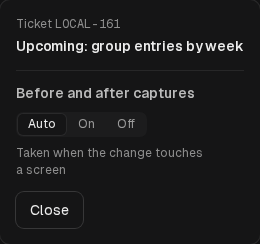
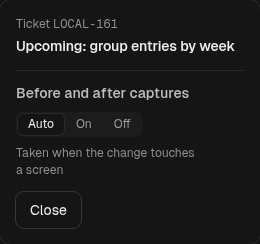
v2 j3-capture-detect: the switch's buttons 44 px up to 1100 px; the log's checks after the merge of 374, the art director's pass, the after captures again

diff --git a/v2/app/web/screens/session/session.css b/v2/app/web/screens/session/session.css
@@ -480,3 +480,5 @@ details.row .what > .sub { margin: 0 0 0 auto; }
 /* The outcome takes the focus to be read out (CloseTicket.tsx); a line of text, it draws no ring. */
 #close-done:focus { outline: 2px solid transparent; }
 #close-open { margin-top: 12px; }
+/* The receipt's captures switch on the ticket card (P226) reuses the Editor's switch, its buttons 44 px tall wherever the screen's controls are. */
+@media (max-width: 1100px) { .ticket-captures .mode button { min-height: 44px; } }

diff --git a/docs/v2/decisions-log.md b/docs/v2/decisions-log.md
@@ -5911,10 +5911,23 @@ With the CPU slowed four times the budget is at its edge: what is left is the ne
 4. **The decision is taken before any browser starts**, in `#captureProof`, for a one-service author and for each service step alike. The engine asks a new optional effect, `changedPaths` (`flow/effects.ts`): the author's branch fetched into the service's own checkout as a step's branch is, into a ref of its own (`refs/cleared/proof/<service>/<branch>`), committed paths only (publish refuses a branch with no commit of its own, so the authors commit), a folder service's in its folder. No git runs in the session's checkout. Without the effect (the tests' fakes), every author is captured as before and the receipt has no reason, so P210's receipts read as they did.
 5. **Journaled on the capture's event.** `cleared.proof_captured` gains an optional `need` (`take`, `reason`, `screens`); a skipped capture is journaled with no file and no missing part. No new custom name.
 6. **The choice is kept by ticket in the ledger, not on the tracker's ticket.** The ticket store has no field a ticket can change after it is created (labels are set at creation), and adding one would reopen lane 1's contract and every store. So a row of `capture_choices` (ticket, project, choice, who, when), the flow module's table, as the fast lane keeps its row; a ticket with no row is on Auto. `GET /api/tickets/:id/captures` answers the choice; `POST` takes `{ choice: 'auto' | 'on' | 'off' }` from a signed-in person only (the editor's save's check, `humanUser`), 404 for a ticket the store does not know. It counts from the next author that ends its work: captures already taken stay.
-7. **The switch is on the ticket card**, the session screen's left column, under the ticket's facts: "Before and after captures" / "Captures avant et après", then Auto, On, Off (Auto, Oui, Non) drawn with the Editor's diff and file switch's existing classes (`.mode.scope`), and one line that says what the pressed one does. No sheet changed: `session.css` and `app.css` are being redrawn by the `j3-visual-redesign` lane. Not drawn before the choice is read, nor on a ticket that is Done or Ready to Ship. A failed save says so under the switch and keeps the old choice pressed. "Auto" joins the words French spells as English in `app/web/test/i18n-audit.test.tsx`.
+7. **The switch is on the ticket card**, the session screen's left column, under the ticket's facts: "Before and after captures" / "Captures avant et après", then Auto, On, Off (Auto, Oui, Non) drawn with the Editor's diff and file switch's existing classes (`.mode.scope`), and one line that says what the pressed one does. The sheets are left to the `j3-visual-redesign` lane, which redraws `session.css` and `app.css` (pull request 377): one scoped rule only, for the touch target (below). Not drawn before the choice is read, nor on a ticket that is Done or Ready to Ship, nor for an answer that is not a choice. The choice is read once with the view and set by its own save. A failed save says so under the switch and keeps the old choice pressed. "Auto" joins the words French spells as English in `app/web/test/i18n-audit.test.tsx`.
 
 **Tests first.** `4722a0b` committed the tests alone, on `origin/v2` at `819ce38`. On that code `test/flow/capture-need.test.ts` and `test/flow/capture-detect.test.ts` cannot load (`capture-need.ts` and `capture-choice.ts` do not exist); the receipt has no reason (six of seven tests of `test/flow/receipt-need.test.ts` fail, the seventh guards a capture journaled before the rule); both tests of `test/flow/capture-paths.test.ts` fail (`changedPaths` is not an effect); the routes and the switch are absent (three of four tests of `app/web/test/session/capture-choice.test.tsx` fail, the fourth, nothing drawn before the choice is read, guards the other side). `test/api/types.test.ts` (68 routes) and `test/flow/modules.test.ts` (42 routes, the new table) were amended with them, since they pin those lists. The browser test, `app/test/session/capture-choice-browser.test.ts`, was written after the code, to take the card's captures and to prove the click, the save and the reload in Chromium; it is in the CI's `browser` job list. Two test edits came after the first full run, both in the tests: the browser test first opened a session the default fixtures source does not serve (it now finds the ticket's author in the source's list), and it compared the chooser with the account's name where the service keeps its id.
 
-**Captures** (the visual loop, B4.5). The ticket card before and after, at 1440, 1280, 768 and 390 pixels, light and dark, in English, and at 1440 and 390 in French: `docs/v2/capture-detect/{before,after}/`, taken by the browser test with `CLEARED_V2_SHOTS` on the fixtures source (the before set on a detached checkout of `819ce38`). Twenty PNG files, 212 KB in all, each about 10 KB; not put through `pngquant` and `optipng`, which this machine does not have, and small enough as they are.
+**Art-director pass** (Sonnet 5.5 in a fresh agent, on the twenty captures, `CaptureSwitch`, the catalogs, the session sheet and `app/DESIGN.md`; Impeccable's critique as its checklist; the first brief named a wrong path for the design file, and a second message gave it the right one). No breakage in the code. Taken: the switch's buttons are 44 px tall up to 1100 px, as the screen's other controls are (DESIGN.md section 8; they were the Editor switch's 36 px at 768), by one rule scoped to `.ticket-captures` at the end of `session.css`, so the Editor's own switch and the redraw of pull request 377 are left alone; the status line is always in the page (a live region inserted with its text is often missed); the group is described by its hint (`aria-describedby`); a save in flight ignores a second click instead of disabling the buttons, which faded the pressed one. Not taken: a focus ring of its own, since `app.css` already draws the app's ring (`--ring`) on every `:focus-visible`; the dark contrast of the unpressed choices, the Editor switch's styling before this lane, for the lane that redraws the sheets; the fixed ids, which follow the card's own (`ticket-title`, `criteria-title`); the hints' wording, since the heading says what is taken.
+
+**Two defects the browser list found, both fixed before the pull request.** The stack and continuity tests serve the session view from sources that answer every route they do not know with something that is not a choice, and the switch drew a missing key (`captures_undefined_hint`). The view now draws the switch only for an answer that is a choice (`captureChoiceOf`, tested on such answers). And the choice was read again at every change of the service, by each of the up to five views the stack keeps mounted: it is now read once with the view and set by its own save, so a choice made in another tab shows on the next visit.
+
+**Captures** (the visual loop, B4.5). The ticket card before and after, at 1440, 1280, 768 and 390 pixels, light and dark, in English, and at 1440 and 390 in French: `docs/v2/capture-detect/{before,after}/`, taken by the browser test with `CLEARED_V2_SHOTS` on the fixtures source: the before set on a detached checkout of `819ce38`, the after set on this branch after the merge of 374 and the art director's items (the 768 pictures show the 44 px buttons). Twenty PNG files, about 10 KB each; not put through `pngquant` and `optipng`, which this machine does not have, and small enough as they are.
 
 **Not done.** The rule reads paths, not content: a server file that renders a page (the guestbook's `src/server.ts` serves `renderPage`) counts as the backend; the switch is the answer. A ticket of variants still takes no capture (P210's gap). No real ticket ran through a trial environment: P210's own proof run is still to come, and it will show the rule on a real diff.
+
+**The merge of 374** (lane `j3-a11y`, at `origin/v2` `2b2314e`). The log keeps 374's entry, then this one; the matrix keeps P224 and P225, then P226, every id once; the browser job's list keeps `a11y-browser.test.ts` beside this lane's file. 374 changed `CloseTicket.tsx` and the inbox, not the files of this lane; its axe test runs on the session screen with the switch drawn and finds nothing (it needs `axe-core`, which 374 added to the lock file: `npm ci` again).
+
+**Checks** (after the merge, at `2b2314e` merged). `npm run typecheck` passes. `npm test`: 2161 Node tests, 2075 pass, 86 skipped (the browser tests and the gated real-harness tests), 0 fail; 349 Vitest tests pass. The CI's `browser` job list, run as the job runs it (with `CLEARED_V2_PLAYWRIGHT` and `CLEARED_V2_CHROME`): 71 tests, 70 pass, 1 skipped (this lane's captures, which need `CLEARED_V2_SHOTS`), 0 fail; then the tab-switch budget alone: passes, p95 56.3 ms, 0 documents, at most 0 requests a switch. An earlier run of that list, before the fixes above, failed the stack and continuity tests (the missing key) and, after the merge, the axe test (no `axe-core` installed yet). `npm run guard -- --base origin/v2`: nothing refused.
+
+**Resources.** No Docker object, no Claude Code, Slack, Cursor or Codex account, no login read, no network beyond `npm ci` of the lock file, `git fetch` and GitHub, no tunnel, no secret; the app, the fixtures source and the browser listen on port 0 on loopback.
+
+- Pull request: (named once it is open), against `v2`.
+- Author: Opus 5.5 (claude-opus-5-5), lane `j3-capture-detect`.

diff --git a/docs/v2/requirements-matrix.md b/docs/v2/requirements-matrix.md
@@ -366,7 +366,7 @@ Every requirement of the brief (the orchestrator's prompt and the owner's decisi
 | P223 | A switch between screens does only the work of drawing the next screen, and the tab-switch budget (U5) measures the app, not the host's load (issue #367; the budget failed under load in #366, 32 to 36 ms alone): Intl's number formatters, the word for yesterday and the Lead's day and month built once per language and options; a screen's catalog over the shell's made once per language; the sidebar's bell reads the browser once per answer of the service; the Lead's stream, opened again at each visit, draws the thread again only for a frame that changes it and asks the inbox again only for a new question or a moved plan; the next screen's sheets on before any layout effect and the window's scroll given back last, so a switch lays the page out once; a kept value read again in a new object, and a refetch that answers what the cache held, draw nothing again; the budget runs alone in the CI's `browser` job, after the other files, and `CLEARED_V2_BUDGET_SLOWDOWN=4` measures it with the page's CPU slowed four times | 3 | 372 (lane `j3-tab-perf`) | `app/test/foundation/switch-work.test.ts`, `app/web/test/switch-work.test.tsx`, `app/test/foundation/switch-work-browser.test.ts` (in the CI's `browser` job), `app/test/foundation/budget-browser.test.ts` (alone in that job); the measures before and after in the log entry of 2026-10-25 | done (with the CPU slowed four times, the median of three runs' p95 is 91 to 102 ms, from 115 to 154 ms before: what is left is the next screen's own style, layout and render) |
 | P224 | The app meets WCAG 2.2 AA on its main screens, checked by axe in a real browser on the fixtures, light and dark, in French and in English, at 1440 and 390 px (no new feature; one visual change, an underline): a link in a line of text is underlined (the inbox's pull request and a train stop's, the recipe note's); the account menu's dialog has a name; the top bar is the page's banner and the sidebar's live sessions are a group in its landmark, not a second region named as the tower's block; the inbox's h1 is read out, not drawn; a question's and a plan's status lines are in the page, empty, before their message; Close, on the session's page and in the inbox, moves the focus to the reason, Keep brings it back to Close, and the outcome takes it once closed, the inbox's live line saying it (no issue: the lane's brief; P223 is lane `j3-tab-perf`'s, pull request 372) | 3 | 374 (lane `j3-a11y`) | `app/test/a11y-browser.test.ts` (in the CI's `browser` job), `app/web/test/a11y-live.test.tsx`, `app/web/test/inbox/render.test.tsx`, `app/test/inbox/inbox-browser.test.ts`; the captures in `docs/v2/a11y/`; the log entry of 2026-10-25 (the audit and what it left) | done |
 | P225 | The tests CI saw unstable are stable, their causes found first (the rehearsal lead's turn, the Go at 375 px in French and in English, the Consumption panel on a phone), and the error paths and limits the coverage found unrun in the engine, the fast lane, the harness pick, the receipt and the session runtime have tests; no change of the product's behaviour (no issue: the line is the brief): `app/test/inbox/mobile-browser.test.ts` waits for the Go's own line, as the cache shows the plan handled, with no Go yet, while the Go is on its way ("Traité." or "Handled.", CI runs 40156763968, 40158528194, 40172850057 and 40177143932); `app/test/consumption/wins-browser.test.ts` measures a width once the shell's sidebar mode has followed it, as the style moves to a phone at once and the mode on the media query's change event, and until then the bell's hidden tooltip widens the page to 486 px (run 40176736780); the rehearsal lead (`src/session/adapters/index.ts`) names each turn, question, call and reply with a UUID, as the real runner does, since `<session>-turn-1-1` is no generated id and a session id holding a phone number's shape left its question unanswerable (run 40172850057); the coverage measured with `node --test --experimental-test-coverage`, no new dependency (Vitest's needs `@vitest/coverage-v8`, not installed, and the five modules are the service's) | 3 | 373 (lane `j3-test-gaps`) | `app/test/inbox/mobile-browser.test.ts` (the Go's answer held 400 ms) and `app/test/consumption/wins-browser.test.ts` (the media queries' change answered 500 ms late), both in the CI's `browser` job, `test/scripts/rehearsal-adapter.test.ts` (every id the lead writes matches `GENERATED_ID`), `test/flow/engine-errors.test.ts`, `test/flow/fast-lane.test.ts`, `test/flow/harness-pick.test.ts`, `test/flow/receipt.test.ts`, `test/container/session-runtime.test.ts`; the before and after figures in the log entry of 2026-10-25 | done (the line the inbox draws while a Go is on its way, "Traité.", and the bell's hidden tooltip while the sidebar's mode catches up with a phone's width, are left as they are and logged: changing them changes the screen) |
-| P226 | The proof receipt (P210) takes captures before and after only when the ticket's change touches what a person sees (components, styles, displayed words and their catalogs, page routes, templates, the assets a page draws), none for a change of the backend alone, of tests, of CI or of docs; its line of each service says why in one line in the project's language ("No screen changed" / "Aucun écran modifié", or the screens touched); the human forces captures on or off from the ticket (issue #368) | 3 | lane `j3-capture-detect`: `src/flow/capture-need.ts` (the rule, a pure function of the diff's paths; the human's choice wins; a diff that cannot be read is captured), the engine reads the author's committed paths (`changedPaths`, `flow/effects.ts`, a folder service's in its folder) before any browser starts and journals the reason on `cleared.proof_captured` (`need`), `flow/receipt.ts` writes it after the service's captures (FR/EN), `flow/capture-choice.ts` keeps the choice by ticket in the ledger (`capture_choices`, who and when), `GET` and `POST /api/tickets/:id/captures` (`flow/proof-routes.ts`), the ticket card's Auto, On and Off switch (FR/EN) | `test/flow/capture-need.test.ts` (path lists: visible, not visible, the screens named, the choice both ways, an unread diff), `test/flow/capture-detect.test.ts` (a visible change captured with its screens; a backend, test, CI or docs change not captured, the capture effect never called; forced on and forced off win; an unread diff; no reader; the store; the routes), `test/flow/capture-paths.test.ts` (real git: committed paths only, a folder service's folder), `test/flow/receipt-need.test.ts` (each reason in English and in French, one line a service, five screens then how many more), `app/web/test/session/capture-choice.test.tsx` (fr and en), `app/test/session/capture-choice-browser.test.ts` (Chromium: Off saved and kept after a reload; French on a phone) | in progress |
+| P226 | The proof receipt (P210) takes captures before and after only when the ticket's change touches what a person sees (components, styles, displayed words and their catalogs, page routes, templates, the assets a page draws), none for a change of the backend alone, of tests, of CI or of docs; its line of each service says why in one line in the project's language ("No screen changed" / "Aucun écran modifié", or the screens touched); the human forces captures on or off from the ticket (issue #368) | 3 | issue #368; lane `j3-capture-detect`: `src/flow/capture-need.ts` (the rule, a pure function of the diff's paths; the human's choice wins; a diff that cannot be read is captured), the engine reads the author's committed paths (`changedPaths`, `flow/effects.ts`, a folder service's in its folder) before any browser starts and journals the reason on `cleared.proof_captured` (`need`), `flow/receipt.ts` writes it after the service's captures (FR/EN), `flow/capture-choice.ts` keeps the choice by ticket in the ledger (`capture_choices`, who and when), `GET` and `POST /api/tickets/:id/captures` (`flow/proof-routes.ts`), the ticket card's Auto, On and Off switch (FR/EN) | `test/flow/capture-need.test.ts` (path lists: visible, not visible, the screens named, the choice both ways, an unread diff), `test/flow/capture-detect.test.ts` (a visible change captured with its screens; a backend, test, CI or docs change not captured, the capture effect never called; forced on and forced off win; an unread diff; no reader; the store; the routes), `test/flow/capture-paths.test.ts` (real git: committed paths only, a folder service's folder), `test/flow/receipt-need.test.ts` (each reason in English and in French, one line a service, five screens then how many more), `app/web/test/session/capture-choice.test.tsx` (fr and en), `app/test/session/capture-choice-browser.test.ts` (Chromium: Off saved and kept after a reload; French on a phone; the card's captures at the four widths, light and dark) | done (on fakes and the fixtures source; the rule has not run on a real ticket's diff yet, which P210's proof run will show) |
 
 ## Reste avant v2 -> main
 
